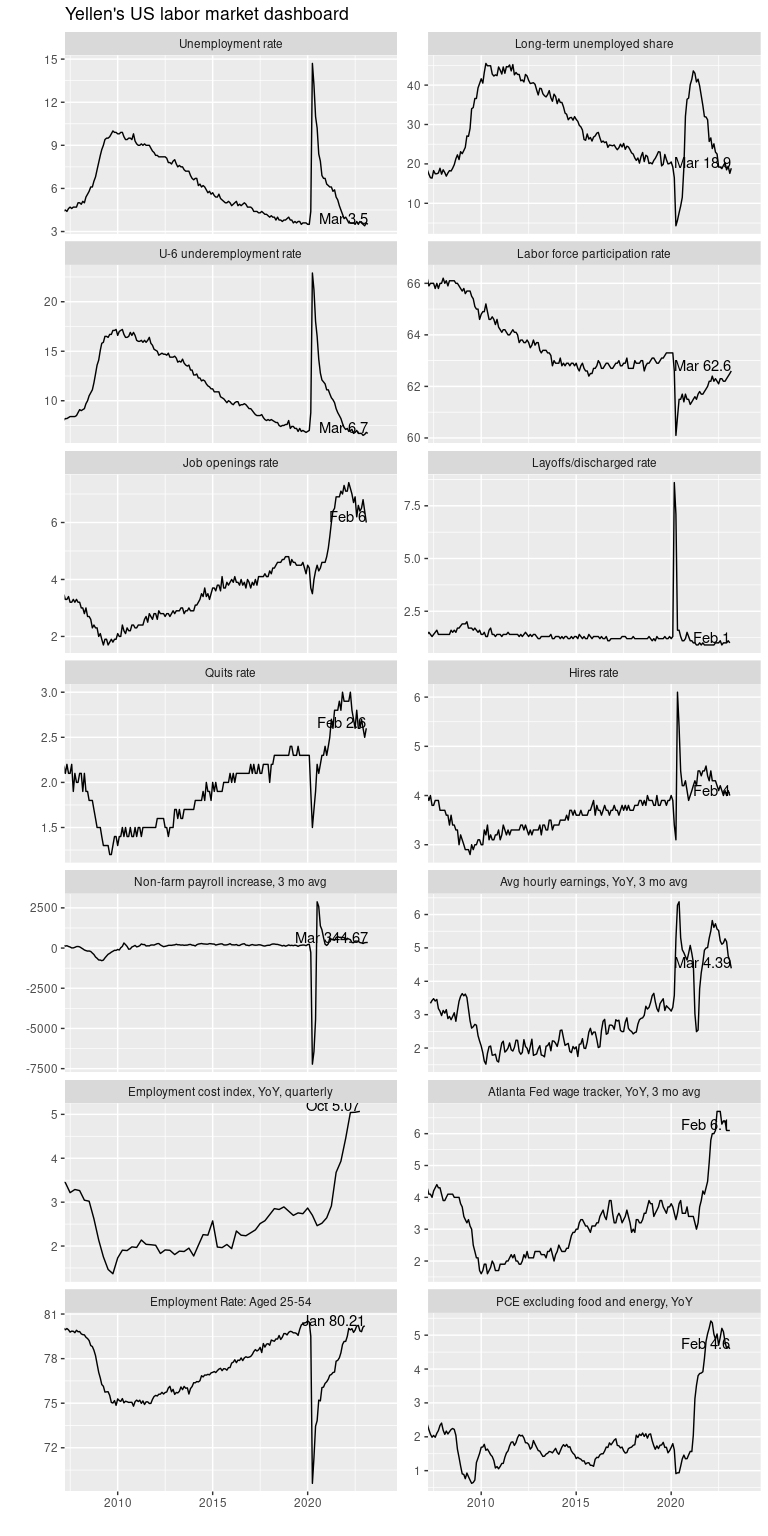
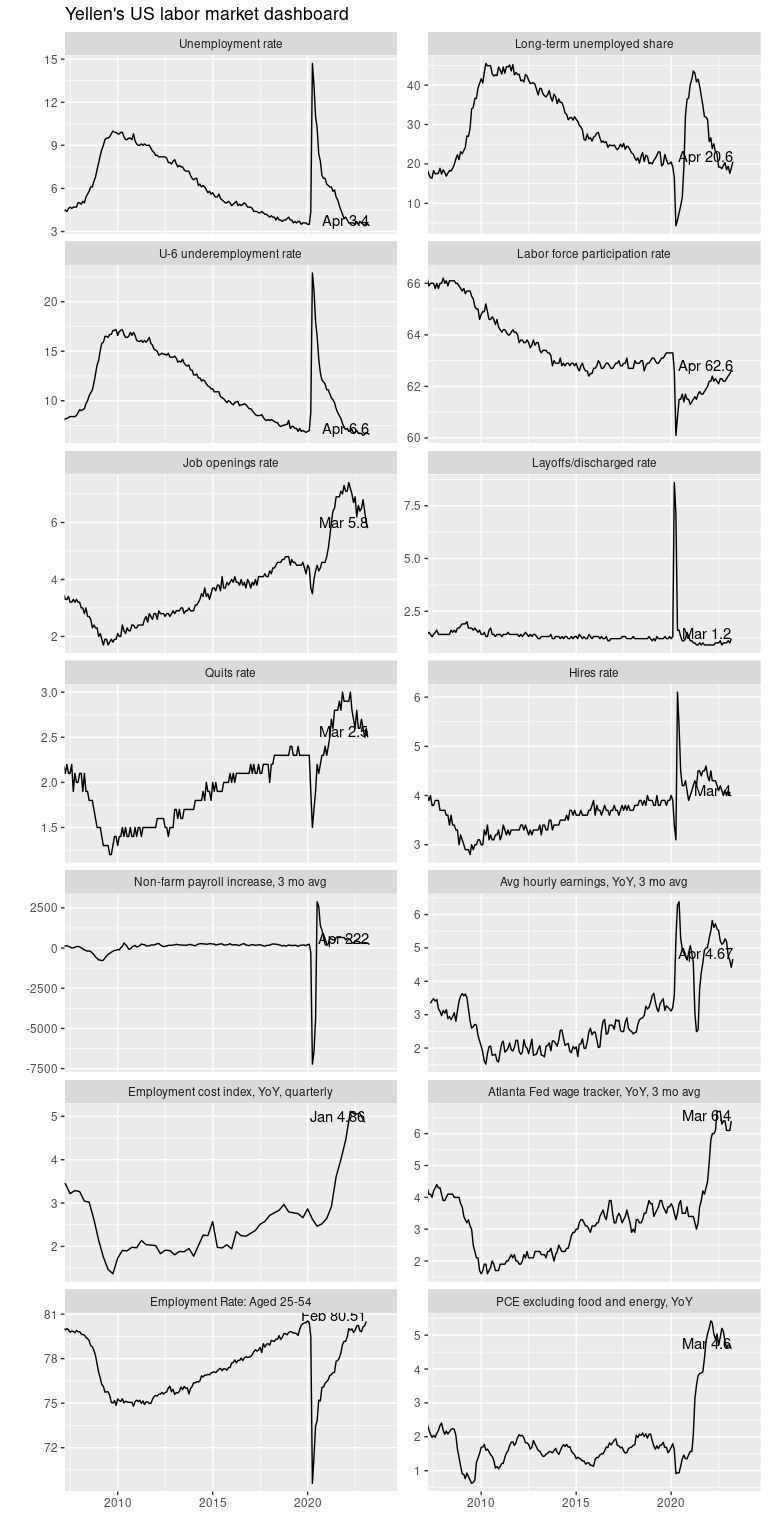
update April 2023 employment

diff --git a/README.md b/README.md
@@ -18,7 +18,7 @@ Mitsuo Shiota
   for the plot</a>
 - <a href="#dashboard" id="toc-dashboard">Dashboard</a>
 
-Updated: 2023-04-08
+Updated: 2023-05-06
 
 ## Summary
 
@@ -49,7 +49,19 @@ readxl package to read excel data.
 
 ``` r
 library(tidyquant)
+```
+
+    ## Warning: package 'tidyquant' was built under R version 4.3.0
+
+    ## Warning: package 'quantmod' was built under R version 4.3.0
+
+``` r
 library(tidyverse)
+```
+
+    ## Warning: package 'ggplot2' was built under R version 4.3.0
+
+``` r
 library(httr)
 library(readxl)
 ```
